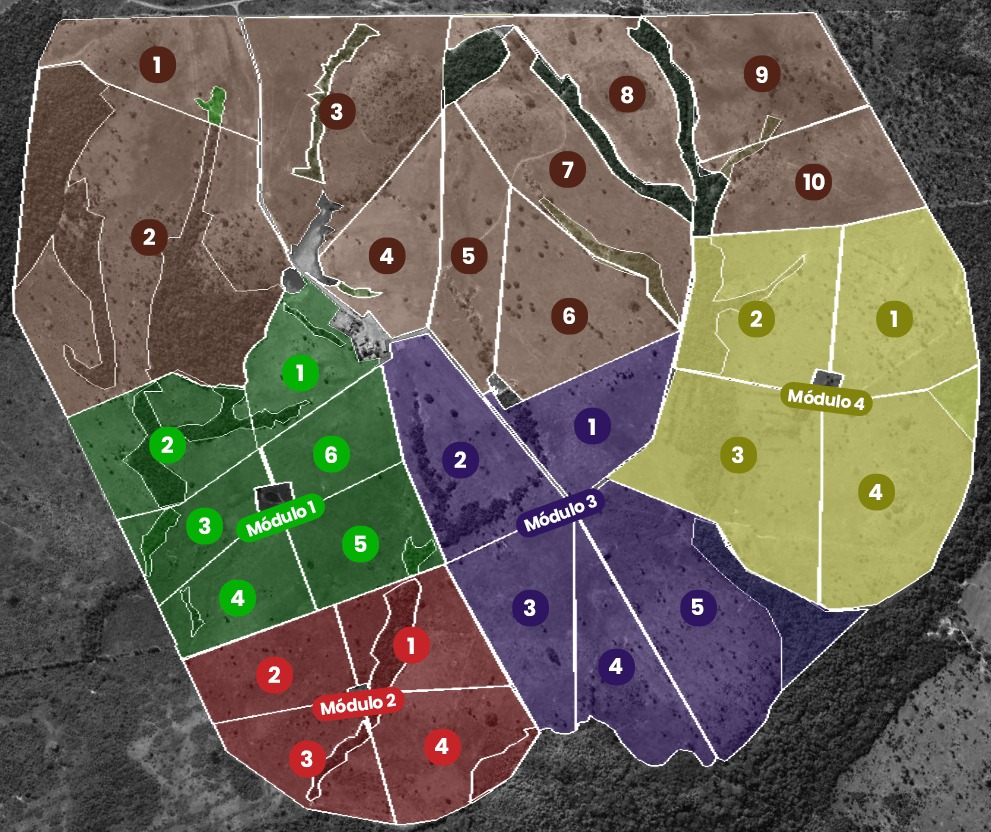
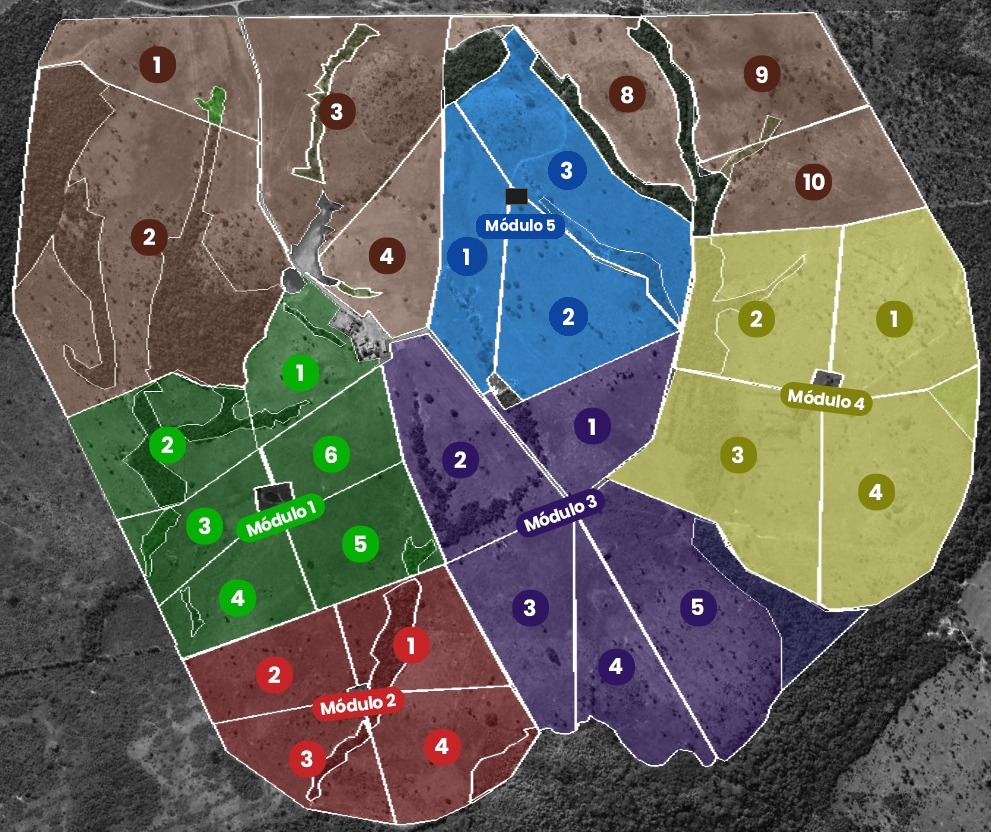
Add files via upload

Changed region(s): [[0.4238, 0.0312, 0.6963, 0.5]]

diff --git a/index.html b/index.html
@@ -1682,7 +1682,7 @@ function rHomeMapa(){
     pin.style.cssText = 'position:absolute;left:'+cx+'%;top:'+cy+'%;transform:translate(-50%,-100%);z-index:10;pointer-events:auto;background:none;border:none;padding:0;cursor:pointer;-webkit-tap-highlight-color:transparent;touch-action:manipulation';
     var nomeLote = lote ? lote.nome : '';
     // Cor por módulo (igual mapa principal); pasto avulso = marrom
-    var _coresH = {1:{bg:'#1B5E20',bd:'#4CAF50',tx:'#A5D6A7'},2:{bg:'#B71C1C',bd:'#EF5350',tx:'#FFCDD2'},3:{bg:'#4A148C',bd:'#CE93D8',tx:'#E1BEE7'},4:{bg:'#827717',bd:'#F9A825',tx:'#FFE082'}};
+    var _coresH = {1:{bg:'#1B5E20',bd:'#4CAF50',tx:'#A5D6A7'},2:{bg:'#B71C1C',bd:'#EF5350',tx:'#FFCDD2'},3:{bg:'#4A148C',bd:'#CE93D8',tx:'#E1BEE7'},4:{bg:'#827717',bd:'#F9A825',tx:'#FFE082'},5:{bg:'#0D47A1',bd:'#42A5F5',tx:'#BBDEFB'}};
     var _corH = (a.tipo==='modulo') ? (_coresH[a.modulo]||_coresH[1]) : {bg:'#5D4037',bd:'#A1887F',tx:'#D7CCC8'};
     pin.innerHTML = '<div style="background:'+_corH.bg+';border:2px solid '+_corH.bd+';border-radius:9px;padding:5px 9px;text-align:center;box-shadow:0 3px 10px rgba(0,0,0,.5);min-width:44px">'
       +'<div style="font-size:15px;font-weight:900;color:#fff;line-height:1.2">'+qtd+'</div>'
@@ -3861,6 +3861,7 @@ function _feedNormArea(v){
   s=s.replace(/^M(\d{1,2})\/P(\d{1,2})$/i,function(_,m,p){return 'M'+String(parseInt(m)).padStart(2,'0')+'P'+String(parseInt(p)).padStart(2,'0');});
   s=s.replace(/^M(\d{1,2})P(\d{1,2})$/i,function(_,m,p){return 'M'+String(parseInt(m)).padStart(2,'0')+'P'+String(parseInt(p)).padStart(2,'0');});
   s=s.replace(/^PA\s*(\d{1,2})$/i,function(_,n){return 'PA'+String(parseInt(n)).padStart(2,'0');});
+  if(typeof MAPA_AREAS!=='undefined'){ var _mp=s.match(/^M(\d{2})P(\d{2})$/); if(_mp && !MAPA_AREAS.some(function(a){return a.id===s;})){ var _al=MAPA_AREAS.find(function(a){return a.tipo==='modulo'&&a.modulo===parseInt(_mp[1],10)&&a.piquete===parseInt(_mp[2],10);}); if(_al) return _al.id; } }
   return s;
 }
 function feedEditarMov(idx){
@@ -6325,7 +6326,7 @@ function _pesLotesMontar(f, animais){
   animais.forEach(function(a){
     var n=parseInt(String(a.lote||''),10); if(isNaN(n))return;
     if(a.data && a.data>dUlt) dUlt=a.data;
-    if(n===14||n===15||n===16){ fora[n]=(fora[n]||0)+1; return; }
+    if(n===14||n===15||n===16){ var fo=fora[n]=fora[n]||{n:0,soma:0,comPeso:0}; fo.n++; var pf=parseFloat(a.peso); if(pf>0){ fo.soma+=pf; fo.comPeso++; } return; }
     var alvo=(n===11||n===12||n===13)?6:n;
     var g=G[alvo]=G[alvo]||{n:0,soma:0,comPeso:0,extra:0};
     g.n++; if(alvo!==n) g.extra++;
@@ -6339,7 +6340,7 @@ function _pesLotesMontar(f, animais){
     var l=S.LOTES[idx];
     linhas.push({idx:idx,nome:l.nome,antesQ:l.qtd||0,antesP:l.peso||0,qtd:g.n,peso:peso,extra:g.extra});
   });
-  _pesLotesPrev={linhas:linhas,data:dUlt,id:f.id};
+  _pesLotesPrev={linhas:linhas,data:dUlt,id:f.id,fora:fora};
   var ua=function(q,p){ return ((q||0)*(p||0)/450).toFixed(1); };
   var nomes={14:'enfermaria',15:'compra',16:'novilha'};
   var h='<div style="font-size:12px;color:#555;margin-bottom:6px">Formação salva em <b>'+_dataBR(f.id)+'</b> ('+(f.datas||'')+'). Confira antes de gravar.</div>'
@@ -6348,8 +6349,15 @@ function _pesLotesMontar(f, animais){
       +'<td>'+x.antesQ+' · '+x.antesP+' kg<div style="font-size:10px;color:#999">'+ua(x.antesQ,x.antesP)+' UA</div></td>'
       +'<td><b>'+x.qtd+' · '+(x.peso||'—')+' kg</b><div style="font-size:10px;color:#999">'+ua(x.qtd,x.peso)+' UA'+(x.extra?' · com '+x.extra+' vaca/reprodutor/bezerro':'')+'</div></td></tr>'; }).join('')
     +'</table>';
-  var fl=Object.keys(fora).map(function(k){ return fora[k]+' '+nomes[k]; });
-  if(fl.length) h+='<div style="font-size:11px;color:#888;margin-top:6px">Não entram: '+fl.join(', ')+' (ficam no Lote Compra, PA04, que você ajusta à mão).</div>';
+  // quem ficou de fora (enfermaria, compra, novilha): o consultor escolhe juntar num lote ou deixar fora
+  var opts='<option value="">Deixar fora</option>'+linhas.map(function(x,i){ return '<option value="'+i+'">Juntar no '+x.nome+'</option>'; }).join('');
+  Object.keys(fora).forEach(function(k){ var fo=fora[k];
+    h+='<div style="display:flex;align-items:center;gap:8px;margin-top:8px;font-size:12px"><span style="flex:1"><b>'+fo.n+' '+nomes[k]+'</b>'+(fo.comPeso?' · '+Math.round(fo.soma/fo.comPeso)+' kg':'')+'</span>'
+      +'<select id="pl-fora-'+k+'" style="padding:6px;border:1px solid #cdd6cd;border-radius:8px;font-size:12px">'+opts+'</select></div>'; });
+  if(Object.keys(fora).length) h+='<div style="font-size:10px;color:#999;margin-top:4px">O que ficar fora não muda nenhum lote (o Lote Compra você ajusta à mão).</div>';
+  // lote do app sem área no mapa (sem mudança de pasto lançada)
+  var semArea=linhas.filter(function(x){ return !(S.rT||[]).some(function(r){ return r.tipo==='mudanca_pasto' && r.lote===x.nome && r.destino; }); }).map(function(x){ return x.nome; });
+  if(semArea.length) h+='<div style="font-size:11px;color:#E65100;margin-top:6px">Sem área no mapa: '+semArea.join(', ')+'. Depois de gravar, lance a mudança de pasto desse lote.</div>';
   if(semApp.length) h+='<div style="font-size:11px;color:#E65100;margin-top:4px">Sem lote no app, não grava: '+semApp.join(', ')+'.</div>';
   h+='<label style="display:flex;gap:8px;align-items:flex-start;font-size:12px;margin-top:10px"><input type="checkbox" id="pl-ciclo" style="margin-top:2px"><span>Começar novo ciclo em <b>'+_dataBR(dUlt)+'</b> (os relatórios dos lotes passam a contar desta data)</span></label>'
     +'<div style="display:flex;gap:8px;margin-top:10px"><button onclick="document.getElementById(\'pes-lotes-form\').innerHTML=\'\'" style="flex:1;padding:10px;border-radius:10px;border:1.5px solid #ccc;background:#fff;font-weight:800;cursor:pointer">Cancelar</button>'
@@ -6359,6 +6367,10 @@ function _pesLotesMontar(f, animais){
 function pesLotesGravar(){
   var P=_pesLotesPrev; if(!P||!P.linhas.length){ alert('Nada para gravar.'); return; }
   var ciclo=document.getElementById('pl-ciclo'); ciclo=!!(ciclo&&ciclo.checked);
+  // junta quem ficou de fora no lote escolhido (soma cabeças e recalcula o peso médio)
+  Object.keys(P.fora||{}).forEach(function(k){ var sel=document.getElementById('pl-fora-'+k); if(!sel||sel.value==='') return;
+    var x=P.linhas[parseInt(sel.value,10)], fo=P.fora[k]; if(!x) return;
+    var tot=(x.peso||0)*x.qtd+fo.soma, nP=x.qtd+fo.comPeso; x.qtd+=fo.n; if(nP>0) x.peso=Math.round(tot/nP); });
   P.linhas.forEach(function(x){
     var l=S.LOTES[x.idx]; if(!l) return;
     l.qtd=x.qtd; if(x.peso) l.peso=x.peso;
@@ -8094,9 +8106,10 @@ var MAPA_AREAS = [
   {id:'PA02',label:'PA 02',tipo:'pasto',ha:24.15, x:32.0,y:8.0},
   {id:'PA03',label:'PA 03',tipo:'pasto',ha:13.56, x:27.0,y:22.0},
   {id:'PA04',label:'PA 04',tipo:'pasto',ha:6.23,  x:41.0,y:30.0},
-  {id:'PA05',label:'PA 05',tipo:'pasto',ha:6.46,  x:48.0,y:22.0},
-  {id:'PA06',label:'PA 06',tipo:'pasto',ha:7.96,  x:48.0,y:35.0},
-  {id:'PA07',label:'PA 07',tipo:'pasto',ha:10.93, x:55.0,y:27.0},
+  // MODULO 5 (antes PA05/PA06/PA07 — ids mantidos para o histórico continuar valendo)
+  {id:'PA05',label:'M5/P2',tipo:'modulo',modulo:5,piquete:2,ha:6.46,  x:48.0,y:22.0},
+  {id:'PA06',label:'M5/P3',tipo:'modulo',modulo:5,piquete:3,ha:7.96,  x:48.0,y:35.0},
+  {id:'PA07',label:'M5/P1',tipo:'modulo',modulo:5,piquete:1,ha:10.93, x:55.0,y:27.0},
   {id:'PA08',label:'PA 08',tipo:'pasto',ha:6.69,  x:61.0,y:18.0},
   {id:'PA09',label:'PA 09',tipo:'pasto',ha:8.33,  x:70.0,y:12.0},
   {id:'PA10',label:'PA 10',tipo:'pasto',ha:7.17,  x:82.0,y:20.0},
@@ -8152,7 +8165,8 @@ function _renderPinsNoContainer(contId, resumoId){
       1:{bg:'#1B5E20',bd:'#4CAF50',bgV:'rgba(27,94,32,0.25)'},
       2:{bg:'#B71C1C',bd:'#EF5350',bgV:'rgba(183,28,28,0.25)'},
       3:{bg:'#4A148C',bd:'#CE93D8',bgV:'rgba(74,20,140,0.25)'},
-      4:{bg:'#827717',bd:'#F9A825',bgV:'rgba(130,119,23,0.25)'}
+      4:{bg:'#827717',bd:'#F9A825',bgV:'rgba(130,119,23,0.25)'},
+      5:{bg:'#0D47A1',bd:'#42A5F5',bgV:'rgba(13,71,161,0.25)'}
     };
     var cor = a.tipo==='modulo'?(cores[a.modulo]||cores[1]):{bg:'#5D4037',bd:'#A1887F',bgV:'rgba(93,64,55,0.25)'};
     var lbl = a.label.replace('MOD:0','M').replace('MOD:','M').replace('/P:0','/P').replace('/P:','/P');
